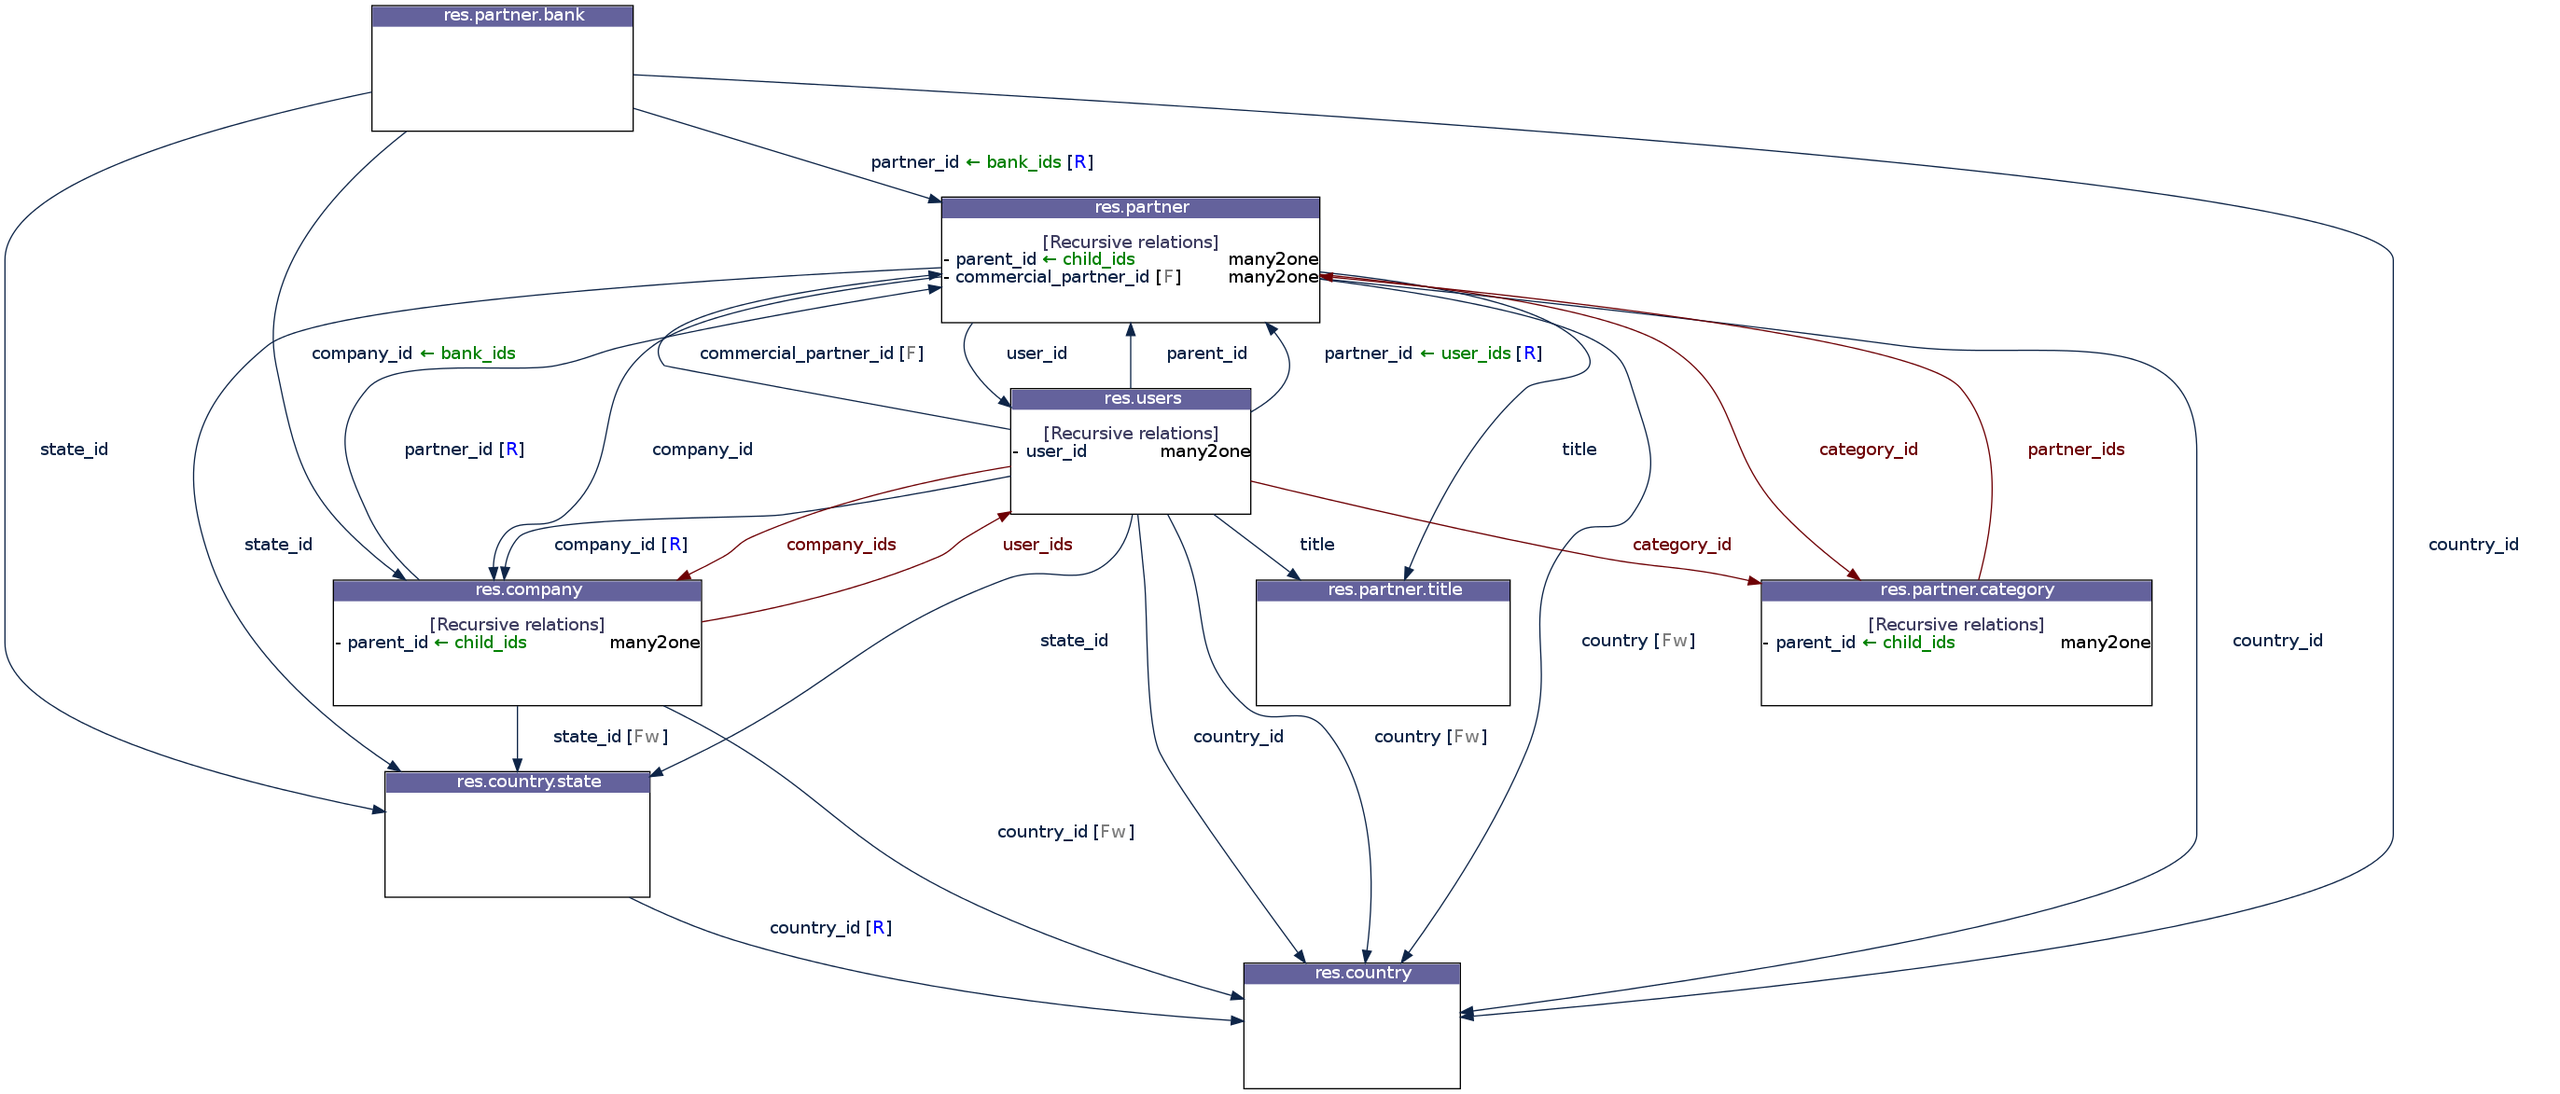
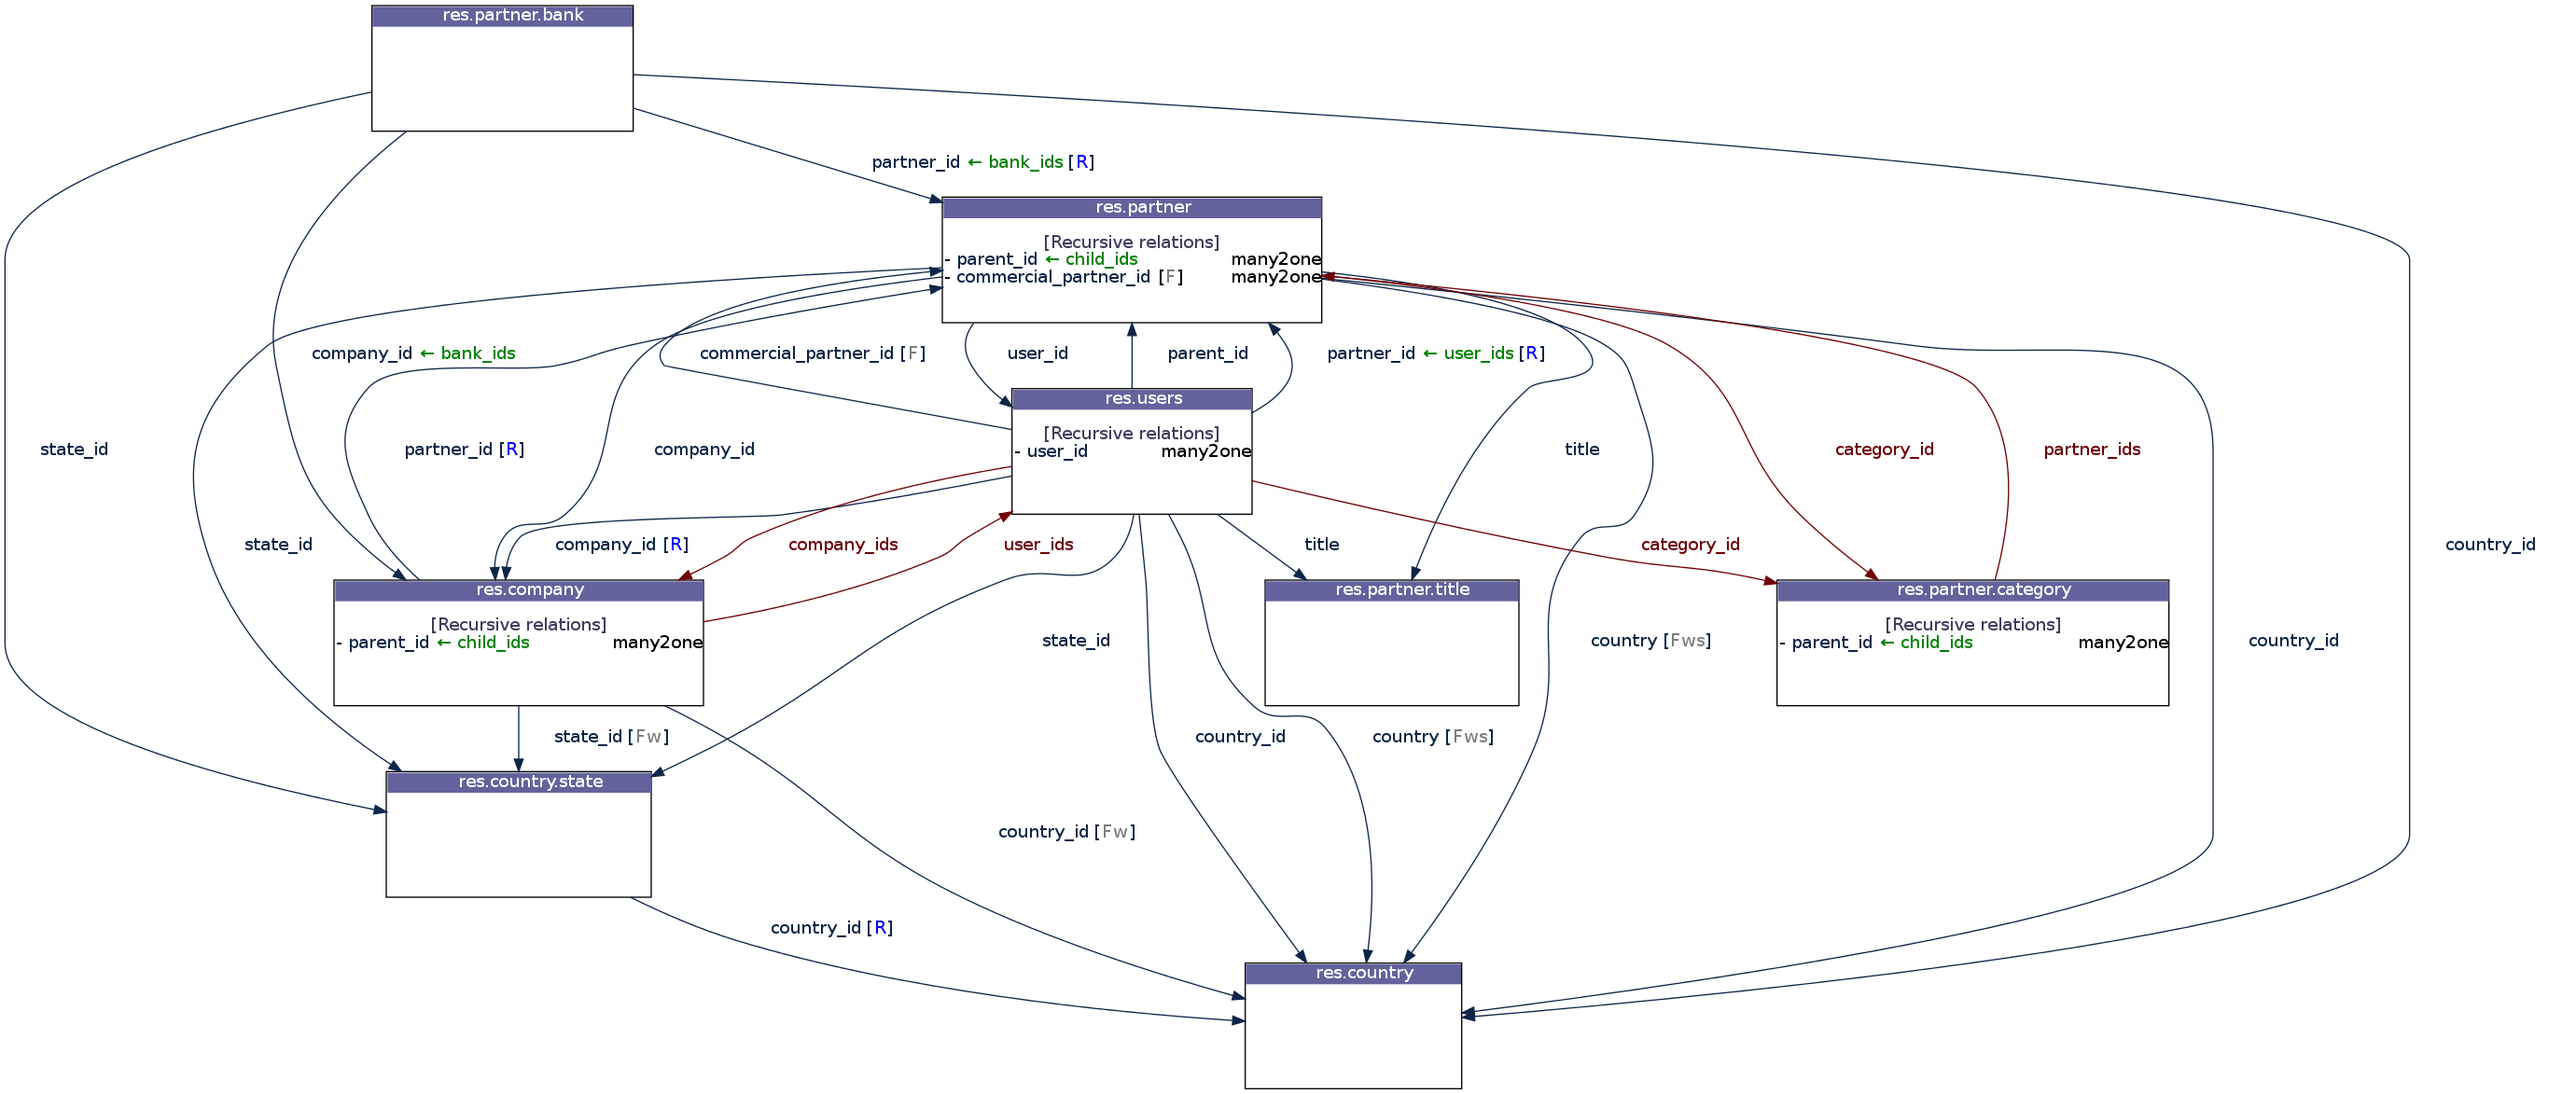
Fix for Bug #1272660 ('inspect.relations': add a 's' flag on fields.function which are searchable)

diff --git a/oerplib/service/inspect/relations.py b/oerplib/service/inspect/relations.py
@@ -158,6 +158,7 @@ class Relations(object):
                     'required': data.get('required'),
                     'function': data.get('function'),
                     'fnct_inv': data.get('fnct_inv'),
+                    'fnct_search': data.get('fnct_search'),
                 }
                 # many2one
                 if data['type'] == 'many2one':
@@ -357,6 +358,8 @@ class Relations(object):
                 color=self._config['color_required']))
         if data.get('function'):
             name = data.get('fnct_inv') and "Fw" or "F"
+            if data.get('fnct_search'):
+                name += "s"
             flags.append("<font color='{color}'>{name}</font>".format(
                 name=name, color=self._config['color_function']))
         if flags:

diff --git a/doc/source/tutorials.rst b/doc/source/tutorials.rst
@@ -431,33 +431,37 @@ to generate a graphic of such relationships::
 
     Legend:
 
-    +--------------------------------------------+-----------------------------------------+
-    | Element                                    | Meaning                                 |
-    +============================================+=========================================+
-    | .. raw:: html                              | many2one                                |
-    |                                            |                                         |
-    |    <font color="#0E2548">partner_id</font> |                                         |
-    +--------------------------------------------+-----------------------------------------+
-    | .. raw:: html                              | one2many                                |
-    |                                            |                                         |
-    |    <font color="#008200">bank_ids</font>   |                                         |
-    +--------------------------------------------+-----------------------------------------+
-    | .. raw:: html                              | many2many                               |
-    |                                            |                                         |
-    |    <font color="#6E0004">company_ids</font>|                                         |
-    +--------------------------------------------+-----------------------------------------+
-    | .. raw:: html                              | Field required                          |
-    |                                            |                                         |
-    |    [<font color="blue">R</font>]           |                                         |
-    +--------------------------------------------+-----------------------------------------+
-    | .. raw:: html                              | Field function (readonly)               |
-    |                                            |                                         |
-    |    [<font color="#7D7D7D">F</font>]        |                                         |
-    +--------------------------------------------+-----------------------------------------+
-    | .. raw:: html                              | Field function (writable)               |
-    |                                            |                                         |
-    |    [<font color="#7D7D7D">Fw</font>]       |                                         |
-    +--------------------------------------------+-----------------------------------------+
+    +--------------------------------------------+--------------------------------------------+
+    | Element                                    | Meaning                                    |
+    +============================================+============================================+
+    | .. raw:: html                              | many2one                                   |
+    |                                            |                                            |
+    |    <font color="#0E2548">partner_id</font> |                                            |
+    +--------------------------------------------+--------------------------------------------+
+    | .. raw:: html                              | one2many                                   |
+    |                                            |                                            |
+    |    <font color="#008200">bank_ids</font>   |                                            |
+    +--------------------------------------------+--------------------------------------------+
+    | .. raw:: html                              | many2many                                  |
+    |                                            |                                            |
+    |    <font color="#6E0004">company_ids</font>|                                            |
+    +--------------------------------------------+--------------------------------------------+
+    | .. raw:: html                              | Field required                             |
+    |                                            |                                            |
+    |    [<font color="blue">R</font>]           |                                            |
+    +--------------------------------------------+--------------------------------------------+
+    | .. raw:: html                              | Field function (readonly)                  |
+    |                                            |                                            |
+    |    [<font color="#7D7D7D">F</font>]        |                                            |
+    +--------------------------------------------+--------------------------------------------+
+    | .. raw:: html                              | Field function (writable)                  |
+    |                                            |                                            |
+    |    [<font color="#7D7D7D">Fw</font>]       |                                            |
+    +--------------------------------------------+--------------------------------------------+
+    | .. raw:: html                              | Field function (searchable)                |
+    |                                            |                                            |
+    |    [<font color="#7D7D7D">Fs</font>]       |                                            |
+    +--------------------------------------------+--------------------------------------------+
 
 By default, only the direct relationships of the model ``res.partner`` are shown
 (this behaviour can be changed with the ``maxdepth`` parameter), and model
